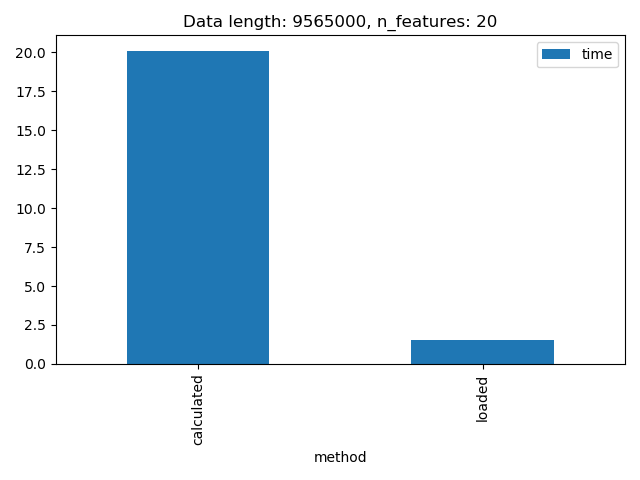
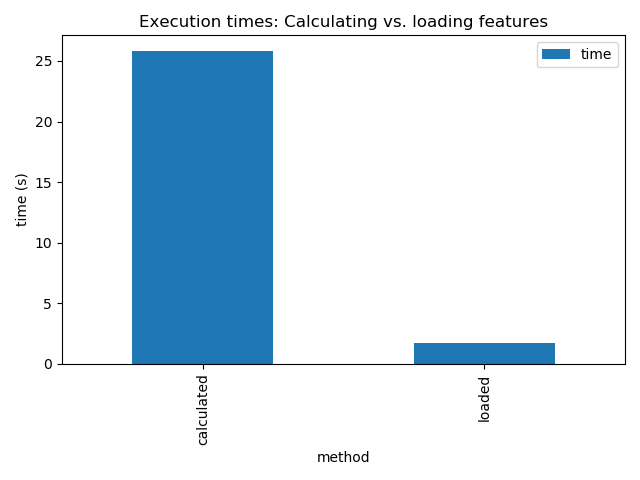
updated post

diff --git a/_posts/2020-08-15-feature_store.md b/_posts/2020-08-15-feature_store.md
@@ -1,0 +1,181 @@
+---
+layout: post
+title: Feature Store for faster Feature Engineering
+featured-img: warehouse
+image: warehouse
+category: [feature_engineering]
+mathjax: true
+summary: A feature store helps to increase feature engineering iteration speed
+---
+
+# Feature Store for faster Feature Engineering
+
+The process of feature engineering can be very repetitive and inefficient when being done manually and in an unstructured way.
+In particular, ordinary feature engineering has the downsides that:
+- the engineering process itself is not formalised, which leads to quick and dirty coding and try and error approaches
+- it is hard to remember the computation methods that were already tried, leading to unneeded calculation repetitions
+- calculated features are not preserved
+
+In order to overcome these inefficiencies and speed up the feature engineering process, I came up with the following solution:
+
+**Structuring of the engineering process**\
+Each feature engineering method is part of an object that is initialised with calculation parameters. The class also provides a method to create feature identifier strings.
+
+**Usage of a feature store and a feature registry**\
+Each calculated feature is registered in the feature registry with its identifier and the feature data is stored efficiently to disk. Using the identifier string, it can easily be reloaded.
+
+
+
+# Structuring of the engineering process
+The main idea here is to embed the actual feature calculation method in a python class. Each object instantiated from this class is initialised with the parameters used for the actual feature calculation (e.g. rolling window size) and a raw data identifier. This identifier is obtained from the statistical properties of the source feature used for the engineering task.
+
+The method's parameters together with the raw data identifier form the engineered feature identifier via the `create_identifier()` method. With this identifier the feature registry can determine whether an identical feature was previously calculated in order to load it from disk.
+
+Each of these engineering processes inherits from the *FeatureProcess* class that acts like an interface each process needs to implement.
+
+
+```python
+class FeatureProcess:
+
+    name: str
+    identifier: str
+
+    @abstractmethod
+    def execute(self, data: pd.DataFrame) -> pd.DataFrame:
+        # Execution of the feature engineering method
+        pass
+
+    @abstractmethod
+    def create_identifier(self) -> str:
+        # Combines the process attributes (data identifier and process parameters) into a string that identifies the feature
+        pass
+
+```
+
+With this interface we can define a feature process, e.g. one that calculates rolling window averages.
+
+```python
+class RollingAverageProcess(FeatureProcess):
+    """
+    Calculates the rolling window average
+    """
+
+    def __init__(self,
+                 source_feature_name: str,
+                 window: int,
+                 source_identifier: str,
+                 ):
+        super().__init__()
+
+        self.source_feature_name = source_feature_name
+        self.source_identifier = source_identifier
+        self.window = window
+
+        self.name = f'rolling_avg_w{window}_{source_feature_name}'
+
+        self.identifier = self.create_identifier()
+
+    def execute(self, data: pd.DataFrame) -> pd.DataFrame:
+
+        data.loc[:, self.name] = data[self.source_feature_name].rolling(self.window).mean()
+
+        return data
+
+    def create_identifier(self) -> str:
+
+        identifier_dict = {
+            'name': self.name,
+            'inputs': [
+                {
+                    'source_feature_name': self.source_feature_name,
+                    'source_identifier': self.source_identifier,
+                },
+            ],
+            'parameters': [
+                {
+                    'param_name': 'window',
+                    'param_value': self.window
+                }
+            ],
+        }
+
+        identifier = json.dumps(identifier_dict, sort_keys=True)
+
+        return identifier
+```
+
+Each process gets assigned a name that acts as the feature's column name in a pandas dataframe.
+
+
+# Feature Store
+
+The feature store is able to both remember and load previously calculated features.
+For this purpose it uses a feature registry.
+
+```python
+class FeatureStore:
+
+    ...
+    ...
+
+    def add_feature(self, identifier: str, feature: pd.Series):
+        # Add new entry to the registry by mapping the feature identifier_string to the filepath
+
+        unique_filename = f"{str(uuid.uuid1())}.parquet"
+        feature_filepath = os.path.join(self.feature_folderpath, unique_filename)
+
+        identifier_string_hash = self.identifier_to_hash(identifier)
+
+        self.feature_registry.update(
+            {
+                identifier_string_hash: {
+                    'filename': unique_filename,
+                    'creation_timestamp': pd.Timestamp.now()
+                }
+            }
+        )
+
+        # Save the feature store object to the filesystem
+        self.save_to_filesystem()
+
+        # Store the feature to the filesystem
+        pd.DataFrame(feature).to_parquet(feature_filepath)
+
+    def registry_contains_identifier(self, identifier: str) -> bool:
+        # Check if registry contains the provided identifier
+        identifier_hash = self.identifier_to_hash(identifier)
+        return identifier_hash in self.feature_registry.keys()
+
+
+    def load_feature(self, identifier: str) -> pd.DataFrame:
+
+        feature_filepath = self.get_filepath(identifier=identifier)
+
+        print("Load from file...")
+
+        feature = pd.read_parquet(feature_filepath)
+        print("\t...loaded")
+
+        return feature
+
+```
+
+When adding a feature to the store, a unique filename is created and an entry added to the registry that maps the identifier to the filename.
+Then the feature store object itself is stored to the filesystem in order to make it usable after the current python process finished, and finally the feature's data is stored in parquet format.
+
+The store can be loaded from disk in a later process and feature identifiers can be looked up via `contains_identifier_string()`. In case the identifier exists in the registry,
+the feature can be directly loaded via `load_feature()` without the need of recalculating it.
+
+# Feature engineering example and speed comparison
+To demonstrate the usefulness of this approach, I use a rather large dataset from the Kaggle M5 Forecasting challenge ([link](https://www.kaggle.com/c/m5-forecasting-accuracy/data)) with several gigabytes of memory consumption, so the feature engineering is expected to be time consuming.
+
+A few feature processes are defined and two run-throughs executed, one in which each feature is calculated, and one in which each feature is loaded from disk via the feature store.
+
+The whole code to run this example can be found on my github: [link](https://github.com/wavelike/feature_store)
+
+The resulting execution time for both approaches is shown in the bar chart.
+
+![]({{ site.url }}/assets/img/feature_store/time_comparison.png)
+
+# Conclusion
+Usage of the feature store accelerates the runtime significantly, which is not surprising since the features are loaded and not recomputed. Usage of such a simple feature store is a very helpful tool when doing extensive Feature Engineering, especially when done on a large dataset and over a longer time period.
